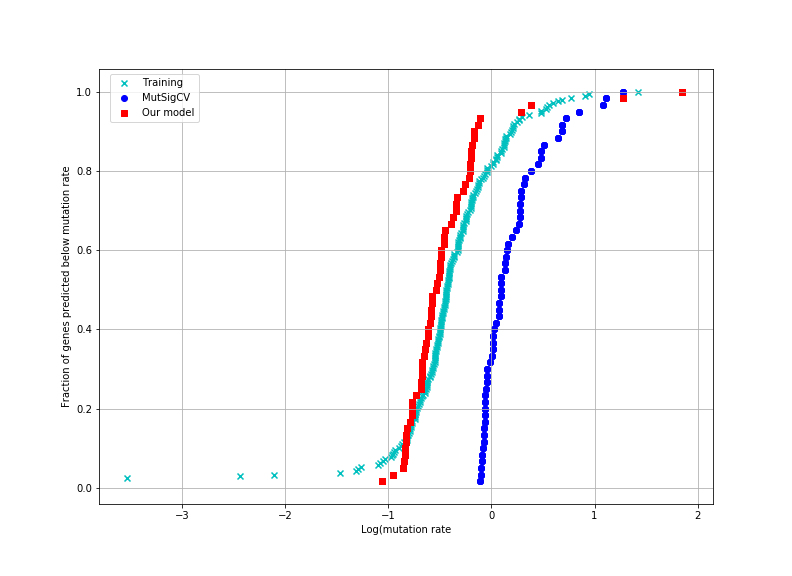
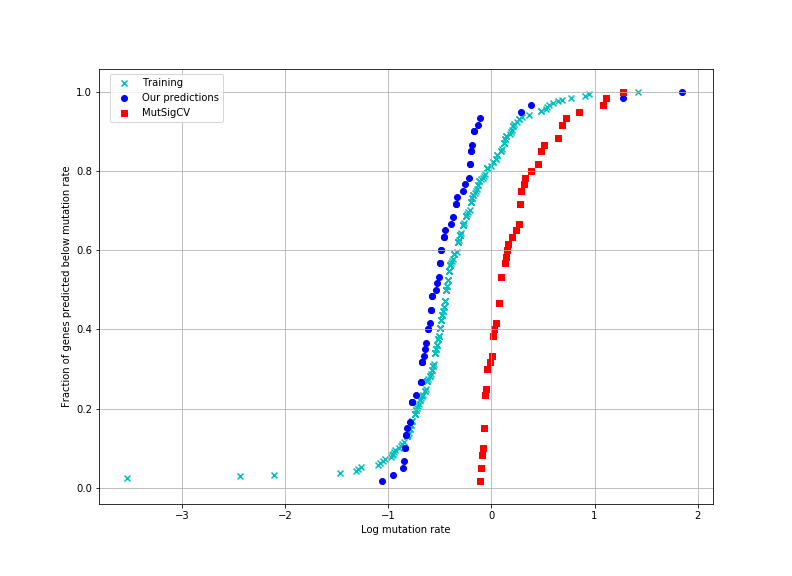
fraction plot

diff --git a/code/plotMutRate.py b/code/plotMutRate.py
@@ -19,7 +19,7 @@ os.chdir(PATH)
 # MutSigCV predictions load
 os.chdir(PATH + "/mutsigCV/all_set")
 fname = "all_output.sig_genes.xlsx"
-data_mutsig = pd.read_excel(fname, sheetname="all_output.sig_genes")
+data_mutsig = pd.read_excel(fname, sheet_name="all_output.sig_genes")
 # rename columns
 data_mutsig.rename(columns={"gene": "Gene", 'u x 10^6': "u"}, inplace=True)
 # add columns
@@ -30,7 +30,7 @@ data_mutsig["Source"] = ["MutSigCV"] * len(data_mutsig)
 # Our predictions load
 os.chdir(PATH + "/RandomForest/CV")
 fname = "CVpredictions.xlsx"
-data_novel = pd.read_excel(fname, sheetname="CVpredictions")
+data_novel = pd.read_excel(fname, sheet_name="CVpredictions")
 # rename columns
 data_novel.rename(columns={"Gene name": "Gene"}, inplace=True)
 # add columns
@@ -38,7 +38,7 @@ data_novel["Source"] = ["Our predictions"] * len(data_novel)
 
 # Training data
 fname = "Training_predictions.xlsx"
-data_train = pd.read_excel(fname, sheetname="ConsolidatedCV_results")
+data_train = pd.read_excel(fname, sheet_name="ConsolidatedCV_results")
 # rename columns
 data_train.rename(columns={"Gene name": "Gene"}, inplace=True)
 # add columns
@@ -115,6 +115,56 @@ for source in ["MutSigCV", "Our predictions"]:
                                              "Training"]['u'])
     print("Kolmogorov statistic for {} = {:0.3f}".format(source, KS_stat))
     print("P-value for {} = {:0.3f}".format(source, pval))
+
+
+# ------------- Plot fraction of genes for varying mutation rates ------#
+num_genes = 60
+# Consensus defines how our model predictions are filtered
+consensus = 5
+# MutSigCV predictions ranked and filtered
+cols = ["Gene", "u", "Consensus", "Label", "Source"]
+data_plot = data_mutsig.sort_values(by=["q", "p"]).iloc[:num_genes, :]
+data_plot = data_plot[cols]
+# Data concatenated
+data_plot = pd.concat([data_plot,
+                       data_all[((data_all["Source"] == "Training") |
+                                (data_all["Consensus"] >= consensus)) &
+                                (data_all["Source"] != "MutSigCV")]])
+data_plot["log_u"] = round(np.log(data_plot["u"]), 2)
+# Populate fractions to be plotted
+temp = []
+for source, u in zip(data_plot["Source"], data_plot["log_u"]):
+    tot = len(data_plot[(data_plot["Source"] == source)]["log_u"])
+    fraction = len(data_plot[(data_plot["Source"] == source) &
+                             (data_plot["log_u"] <= u)]["log_u"]) / tot
+    temp.append(fraction)
+data_plot["Fraction"] = temp
+
+# plot
+fig = pyplot.figure(figsize=(11, 8))
+ax1 = fig.add_subplot(111)
+for source, c, m in zip(list(set(data_plot["Source"])), ['c', 'b', 'r'],
+                        ['x', 'o', 's']):
+    temp = data_plot[data_plot["Source"] == source]
+    ax1.scatter(temp["log_u"], temp["Fraction"], label=source,
+         color=c, marker=m)
+#    ax1.plot(thres_list, data_frac["MutSigCV"], label='MutSigCV',
+#             color='b', marker='o')
+#    ax1.plot(thres_list, data_frac["Our predictions"],
+#             label='Our model', color='r', marker='s')
+#    pyplot.xticks(range(num_bins), tuple(thres_list))
+pyplot.xlabel('Log mutation rate')
+pyplot.ylabel('Fraction of genes predicted below mutation rate')
+handles, labels = ax1.get_legend_handles_labels()
+lgd = ax1.legend(handles, labels, loc='upper left',
+                 bbox_to_anchor=(0.01, 1))
+ax1.grid('on')
+pyplot.show()
+os.chdir(PATH + "/mutsigCV/all_set")
+pyplot.savefig('{}.png'.format(c_cutoff))
+pyplot.close()
+
+
 
 # Compare MutSigCV to Training set but vary threshold for q-value
 for thres in [0.010, 0.001, 0.0001, 0.00001]:
